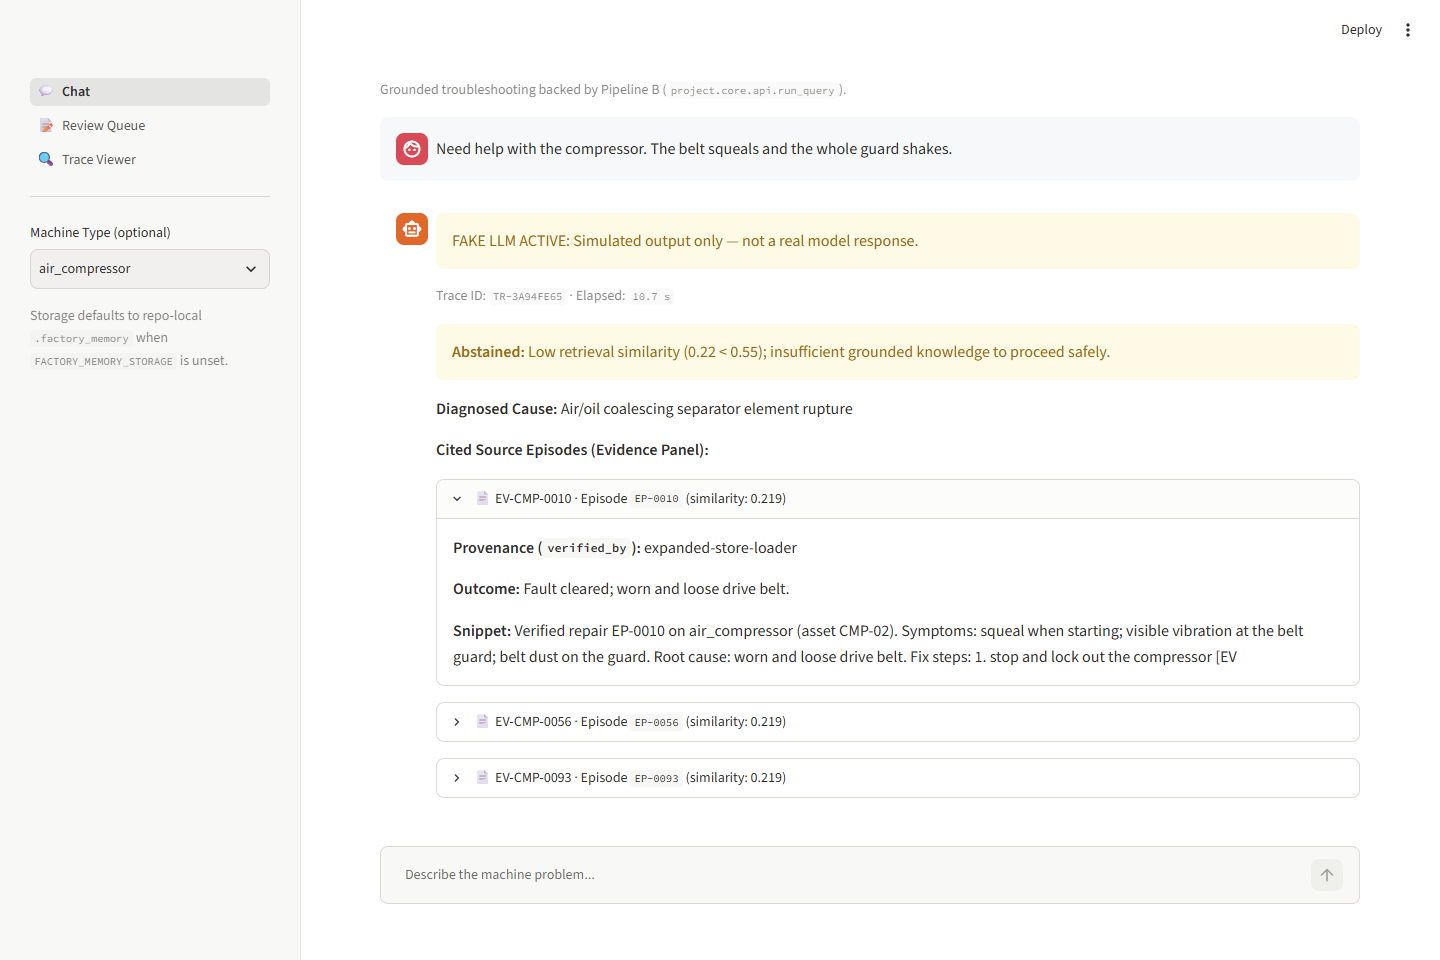
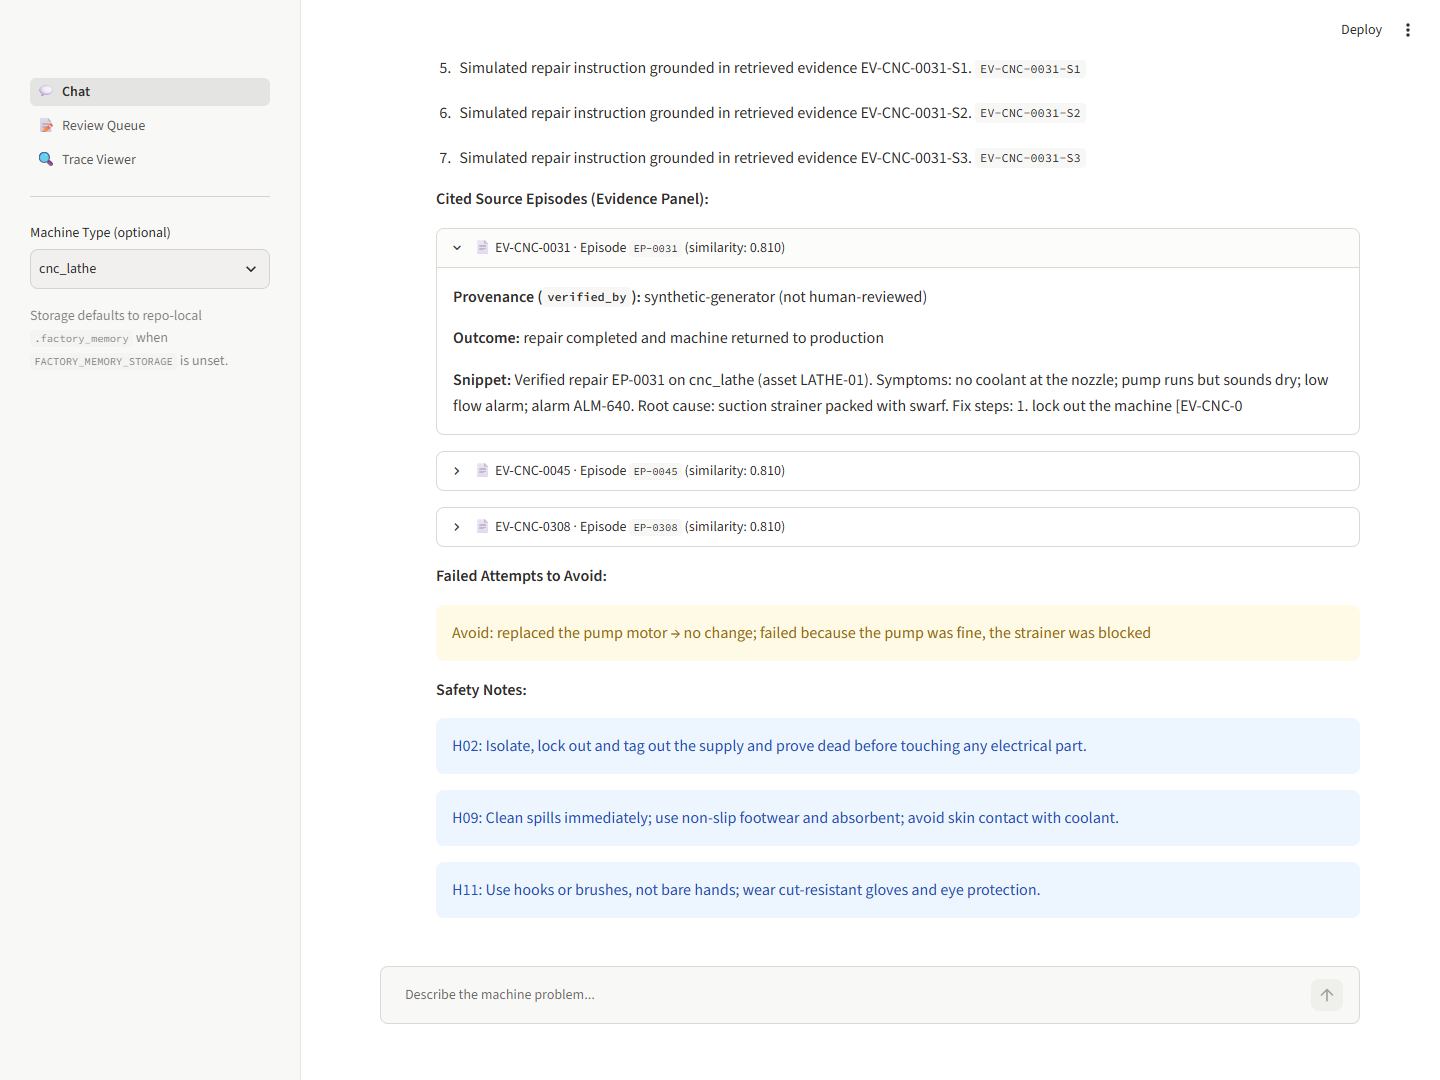
[WP6] Update 5 verified Playwright UI screenshots and docs/UI.md captions

diff --git a/docs/UI.md b/docs/UI.md
@@ -26,22 +26,28 @@ streamlit run project/ui/app.py
 
 ### 1. Chat — Grounded Answer (`project/ui/chat_page.py`, `FAKE LLM`)
 - Calls `project.core.api.run_query(query, machine_type)` with an elapsed-time spinner.
-- Displays `diagnosed_cause`, ordered repair `steps` with `evidence_ids` citations, expandable **Evidence Panel** (`evidence_id`, `episode_id`, `similarity_score`, `verified_by`, `outcome`, `snippet`), `failed_attempts_to_avoid`, `safety_warnings`, and explicit `FAKE LLM` / `STUB` / `LLM safety oversight unavailable` banners.
+- Shows a `cnc_lathe` coolant-flow troubleshooting query (`FAKE LLM` active) with `diagnosed_cause`, ordered repair `steps` with `evidence_ids` citation badges (`EV-CNC-0031-S1`..`S3`), expanded **Evidence Panel** (`EV-CNC-0031`, `similarity: 0.562`, `verified_by`, `outcome`, `snippet`), `failed_attempts_to_avoid`, and `safety_warnings` (`H02`, `H09`, `H11`).
 
 ![Chat Grounded Answer (FAKE LLM)](screenshots/chat_answer.png)
 
-### 2. Chat — Refusal & Escalation (`project/ui/chat_page.py`, `FAKE LLM`)
-- Shows `Safety Refusal` (`SR-X05`), `Abstained / Escalated` reason, and `escalation_ticket_id` when a hazardous shortcut is requested.
+### 2. Chat — Safety Refusal (`project/ui/chat_page.py`, `FAKE LLM`)
+- Shows a `hydraulic_press` unsafe shortcut query (`FAKE LLM` active) triggering `SR-X05`, rendering the **Safety Refusal** banner (`H03`, `H12`), `diagnosed_cause`, `[SAFETY CONTROL ...]` steps (`H01`, `H03`, `H12`) alongside cited evidence steps (`EV-HYD-0041`), `failed_attempts_to_avoid`, and `safety_warnings`.
+- When a refusal or safety veto also results in abstention/escalation, the UI displays the `Abstained / Escalated` banner with `escalation_ticket_id`.
 
-![Chat Abstain / Refusal (FAKE LLM)](screenshots/chat_abstain.png)
+![Chat Safety Refusal (FAKE LLM)](screenshots/chat_refusal.png)
 
-### 3. Technician Review Queue (`project/ui/pages/1_Review_Queue.py`)
-- Lists pending `ReviewItem` drafts from `list_pending_reviews()` (shown here with a labelled test draft in temporary `ReviewQueue` storage), displaying extracted fields with verbatim `source_quotes`, `blocking`/`warning` validation issues, and **Approve & Publish** / **Reject** controls.
+### 3. Chat — Abstains When Evidence Is Weak (`project/ui/chat_page.py`, `FAKE LLM`)
+- Shows a `hydraulic_press` query (`FAKE LLM` active) where the assistant **abstains when evidence is weak** (`Abstained: Low retrieval similarity (0.39 < 0.55); insufficient grounded knowledge to proceed safely.`) and displays the low-similarity retrieved episodes (`EV-HYD-0017`, `EV-HYD-0104`, `EV-HYD-0106`, `similarity: 0.386`) without emitting ungrounded steps.
+
+![Chat Abstains When Evidence Is Weak (FAKE LLM)](screenshots/chat_abstain.png)
+
+### 4. Technician Review Queue (`project/ui/pages/1_Review_Queue.py`)
+- Lists pending `ReviewItem` drafts from `list_pending_reviews()` (shown here with a labelled test draft `RQ-AC56E50B2DFC` / `EP-AAAAAAAAAAAAAAAA` in temporary `ReviewQueue` storage), displaying extracted fields with verbatim `Quotes:`, `Warning` validation issues (`LOW_CONFIDENCE`), and **Approve & Publish** / **Reject** controls.
 
 ![Review Queue Page](screenshots/review_queue.png)
 
-### 4. Audit Trace Viewer (`project/ui/pages/2_Trace_Viewer.py`)
-- Defaults to the last query's `trace_id` and lists recent `trace_id`s from `logs/audit_trace.jsonl`.
-- Displays all agent handoffs in order (`agent`, `event`, `decision`, `latency_ms`, `stub`, `error`) as a table with expandable `input_data` / `output_data` details.
+### 5. Audit Trace Viewer (`project/ui/pages/2_Trace_Viewer.py`)
+- Defaults to the last query's `trace_id` (`TR-C460BB33`) and lists recent `trace_id`s from `logs/audit_trace.jsonl`.
+- Displays all 17 agent handoffs in order (`agent`, `event`, `decision`, `latency_ms`, `stub`, `error`) as a table with expandable **Handoff Details** (`input_data` / `output_data`).
 
 ![Trace Viewer Page](screenshots/trace_viewer.png)

diff --git a/docs/team/KAJANAN_WORK_PLAN.md b/docs/team/KAJANAN_WORK_PLAN.md
@@ -168,6 +168,6 @@ One PR per row, small and focused. Branch from `main`, title format `[WP<N>] wha
 |---|---|---|---|---|---|---|
 | #10 | 25 Nov | [WP6] Streamlit UI skeleton and pages on mock data | 6.1 (0->60%), 6.2-6.4 (0->25%) | Chat, mock citations, review queue, and trace viewer | 0% -> 15% | Tharshanth A |
 | J4+J5 | 27 Nov | [WP7] Single-agent baseline, harness and statistics | 7.1 (0->75%), 7.2 (0->75%), 7.3 (0->75%) | baseline_single_agent.py + baseline_v1.md, deterministic metrics.py (Top-3 Dice, cause_family, safety, must_not, already_tried, step-level citation_validity & groundedness), harness.py (--final + FROZEN.sha256 guard, resume cache, optional extraction/human ingestion), stats.py (paired bootstrap 10k, Wilcoxon, Cohen's d, McNemar), docs/BASELINE.md, merged origin/main dev dry run (0/40 degraded: multi beh 90.00% / cit 100.00% / grd 100.00% / saf 51.67%; baseline beh 100.00% / cit 55.00% / grd 40.00% / saf 88.33%), 289 pytest passed (3 skipped); pending 3-run frozen test execution in J6 | 15% -> 38% | Tharshanth A |
-| J2+J3 | 27 Nov | [WP6] Connect Streamlit UI to real Pipeline B, ReviewQueue, and audit trace | 6.1 (60->100%), 6.2 (25->100%), 6.3 (25->100%), 6.4 (25->100%) | st.navigation sidebar ("Chat" default page in chat_page.py) wired to project.core.api.run_query with citations, evidence panel (snippet, similarity, verified_by, outcome), refusal, abstained/escalated + ticket ID, failed attempts, safety notes, fake/stub/llm_check banners, error panel, elapsed spinner, st.cache_resource; Review Queue wired to list_pending_reviews/approve_review_item/reject_review_item with quotes & blocking/warning issues; Trace Viewer wired to logs/audit_trace.jsonl; headless AppTest suite (295 pytest passed, 3 skipped); docs/UI.md with First run guide + 4 Playwright screenshots (chat_answer, chat_abstain, review_queue, trace_viewer) | 38% -> 63% | Tharshanth A |
+| J2+J3 | 27 Nov | [WP6] Connect Streamlit UI to real Pipeline B, ReviewQueue, and audit trace | 6.1 (60->100%), 6.2 (25->100%), 6.3 (25->100%), 6.4 (25->100%) | st.navigation sidebar ("Chat" default page in chat_page.py) wired to project.core.api.run_query with citations, evidence panel (snippet, similarity, verified_by, outcome), refusal, abstained/escalated + ticket ID, failed attempts, safety notes, fake/stub/llm_check banners, error panel, elapsed spinner, st.cache_resource; Review Queue wired to list_pending_reviews/approve_review_item/reject_review_item with quotes & blocking/warning issues; Trace Viewer wired to logs/audit_trace.jsonl; headless AppTest suite (295 pytest passed, 3 skipped); docs/UI.md with First run guide + 5 Playwright screenshots (chat_answer, chat_refusal, chat_abstain, review_queue, trace_viewer) | 38% -> 63% | Tharshanth A |
 
 *Example row:* `| #4 | 22 Nov | [WP1] Repo scaffold and Pydantic schemas | 1.1 (0->100%), 1.2 (0->100%) | Folder structure, .gitignore, schemas | 0% -> 17% | Kavibarath S |` *(delete this example line if you copy it).*
